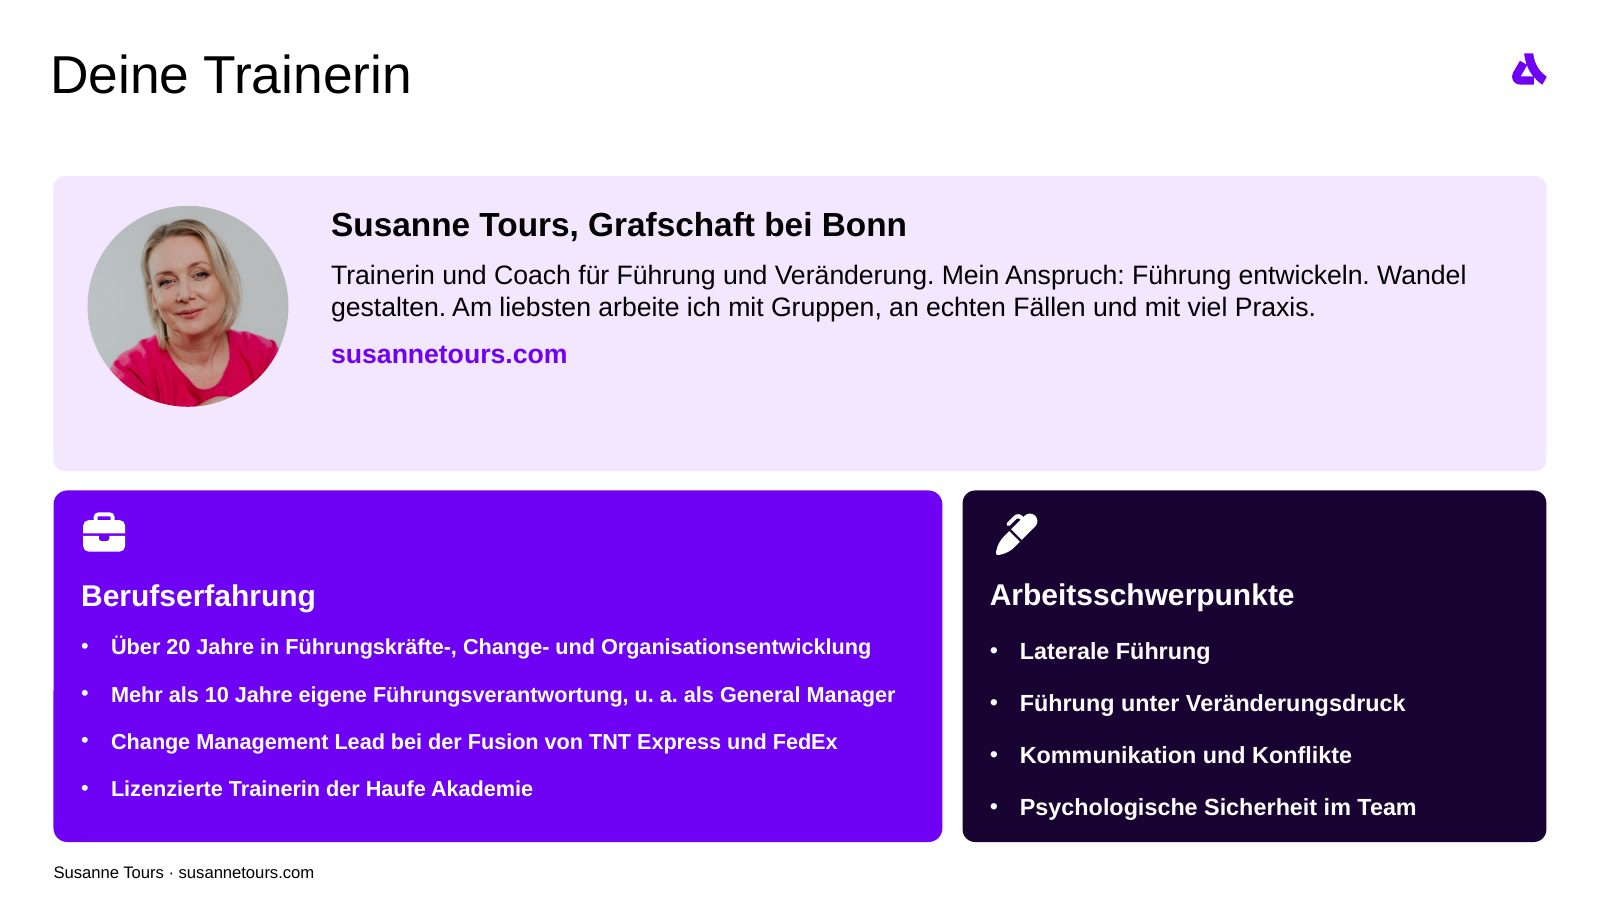
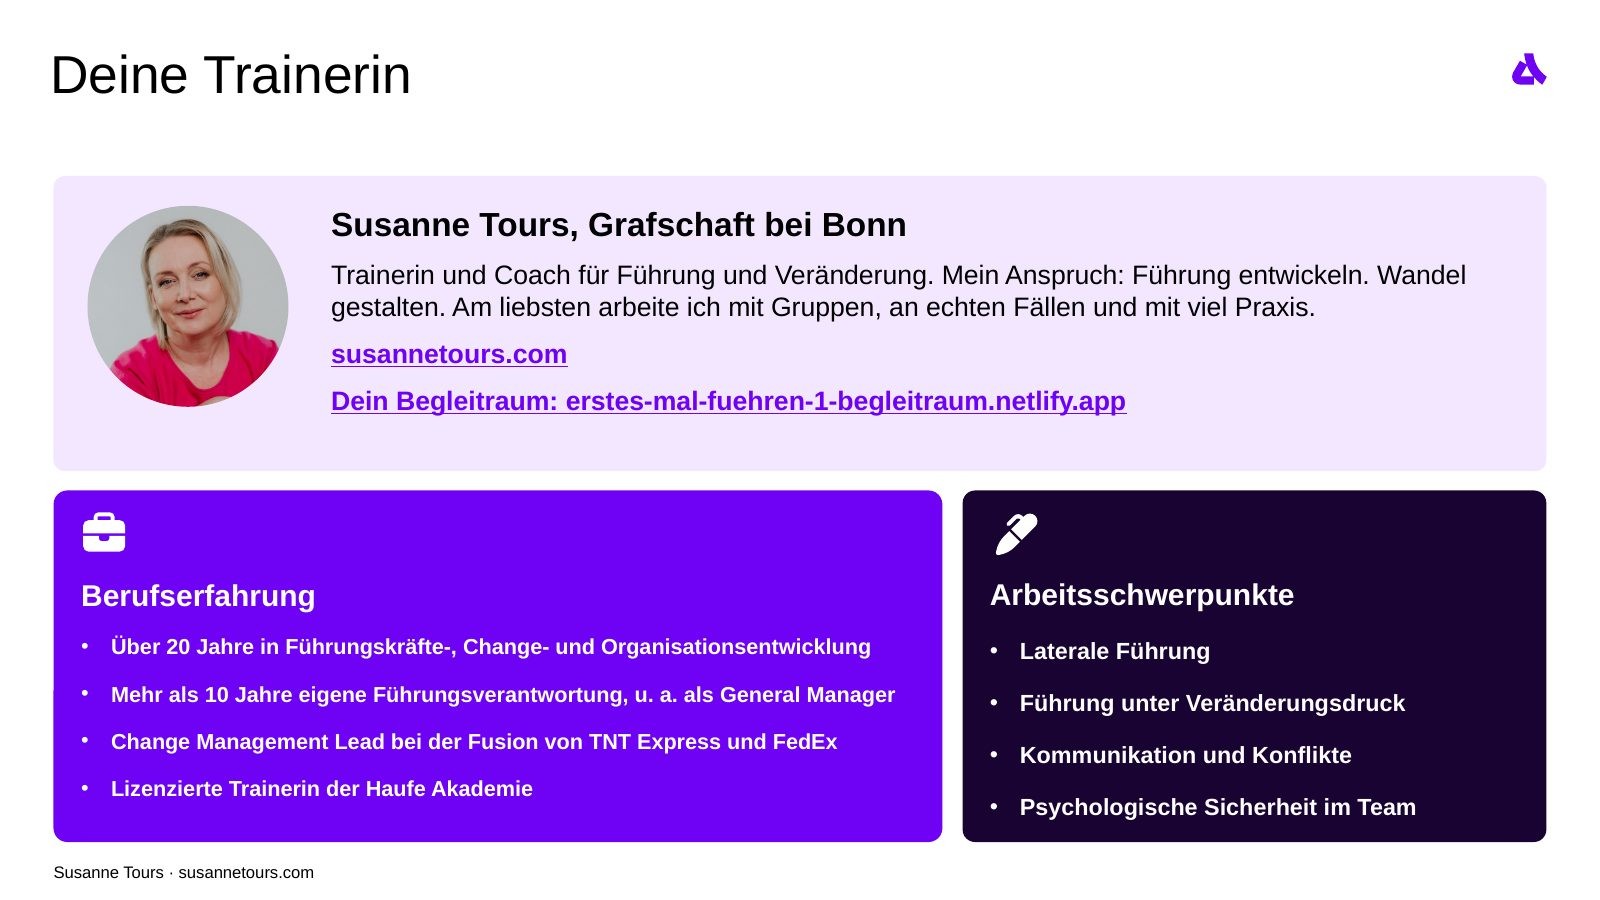
Folien: Begleitraum-Link auf Trainerin-Folie, QR-Code bei Veränderungskurve und Führungskorridor
Claude-Session: https://claude.ai/code/session_01KBCioMVuyp2k3b26XD1BtE

Changed region(s): [[0.1875, 0.4356, 0.7188, 0.4667]]

diff --git a/src/koeln.py b/src/koeln.py
@@ -22,6 +22,27 @@ def foto(t, imgs, paras, eyebrow='Aus unserem Training'):
     return s
 
 
+URL = 'erstes-mal-fuehren-1-begleitraum.netlify.app'
+def trainer_mit_link():
+    s = dup('trainer')
+    tf = shape(s, 'Textfeld 30').text_frame
+    last = tf.paragraphs[-1]._p
+    neu = copy.deepcopy(last); last.addnext(neu)
+    from pptx.text.text import _Paragraph
+    para = _Paragraph(neu, tf)
+    para.runs[0].text = 'Dein Begleitraum: ' + URL
+    para.runs[0].hyperlink.address = 'https://' + URL
+    tf.paragraphs[-2].runs[0].hyperlink.address = 'https://susannetours.com'
+
+
+def qr_hint(s):
+    card(s, 0.45, 5.15, 7.6, 1.75, LIGHT)
+    s.shapes.add_picture('/home/claude/erstes-mal-fuehren/src/QR_Begleitraum.png', Inches(0.6), Inches(5.27), Inches(1.5), Inches(1.5))
+    tbox(s, 2.35, 5.4, 5.5, 1.4, [('Dein Begleitraum', 17, DARK, True, 0),
+        ('Alle Inhalte, Fotos und dein Startplan. Scanne den Code mit deinem Handy.', 14, SOFT, False, 4),
+        (URL, 12, PURPLE, True, 6)])
+
+
 def p(t, size=19, color=None, bold=False, before=12):
     return (t, size, color or DARK, bold, before)
 
@@ -71,7 +92,7 @@ def okr_wie():
 
 # ---------- Inhalt ----------
 haufe_title('Das erste Mal führen 1', 'Vom Rollenwechsel bis zu ersten Führungsgesprächen: dein Fundament für einen erfolgreichen Start in die Führung', 'image10.jpg')
-trainer()
+trainer_mit_link()
 agenda('Tag 1', [('09:00', 'Ankommen'), ('09:45', 'Die Veränderungskurve'), ('10:30', 'Perspektivwechsel'),
                  ('11:30', 'Erwartungen klären'), ('13:30', 'Dein Führungskorridor und OKR'), ('15:30', 'Fünf Grundbedürfnisse'),
                  ('16:15', 'Psychologische Sicherheit'), ('17:00', 'Ende')],
@@ -82,10 +103,10 @@ box('Wer bist du, was erwartest du?', 'Stell dich der Gruppe kurz vor:',
     'Welche Rolle hast du? Wie viele Mitarbeitende führst du? Was muss hier passieren, damit sich die zwei Tage für dich wirklich gelohnt haben?', 'Schreib deine Erwartungen dabei als Hashtag an das Flipchart, zum Beispiel #KritikgesprächeFühren.', 'ca. 1 bis 2 Minuten pro Person')
 
 chapter(1, 'Die Veränderungskurve')
-foto('Die Veränderungskurve', ['veraenderungskurve'], [
+qr_hint(foto('Die Veränderungskurve', ['veraenderungskurve'], [
     p('Jede Veränderung löst Gefühle aus: Schock, Widerstand, Verunsicherung, dann Ausprobieren und neue Sicherheit.'),
     p('Wer neu führt, ist selbst mitten in dieser Kurve. Und das Team auch.'),
-    p('Wo steht dein Team gerade? Und wo stehst du?', 19, PURPLE, True, 20)])
+    p('Wo steht dein Team gerade? Und wo stehst du?', 19, PURPLE, True, 20)]))
 pause('coffee', 'Kaffeepause', '10:15 bis 10:30 Uhr')
 
 chapter(2, 'Perspektivwechsel')
@@ -111,11 +132,11 @@ foto('Das Erwartungsgespräch', ['erwartungsgespraech'], [
 pause('lunch', 'Mittagspause', '12:30 bis 13:30 Uhr')
 
 chapter(4, 'Dein Führungskorridor')
-foto('Dein Führungskorridor', ['fuehrungskorridor'], [
+qr_hint(foto('Dein Führungskorridor', ['fuehrungskorridor'], [
     p('Der Korridor ist der Rahmen, in dem dein Team selbstständig arbeiten kann.'),
     p('Ziel: Wohin wollen wir?'), p('Erwartungen: Was braucht es dafür?', before=4),
     p('Werte und Prinzipien: Wie arbeiten wir zusammen?', before=4), p('Kommunikation: Wie bleiben wir im Gespräch?', before=4),
-    p('Je klarer der Korridor, desto mehr Freiraum hat dein Team.', 19, PURPLE, True, 20)])
+    p('Je klarer der Korridor, desto mehr Freiraum hat dein Team.', 19, PURPLE, True, 20)]))
 foto('Eure Erwartungswand', ['erwartungswand'], [
     p('Was erwartest du an dich selbst? An deine Mitarbeitenden? An deinen Chef?'),
     p('Eure Wand zeigt: Viele Erwartungen sind sich ähnlich. Ausgesprochen werden sie selten.'),
